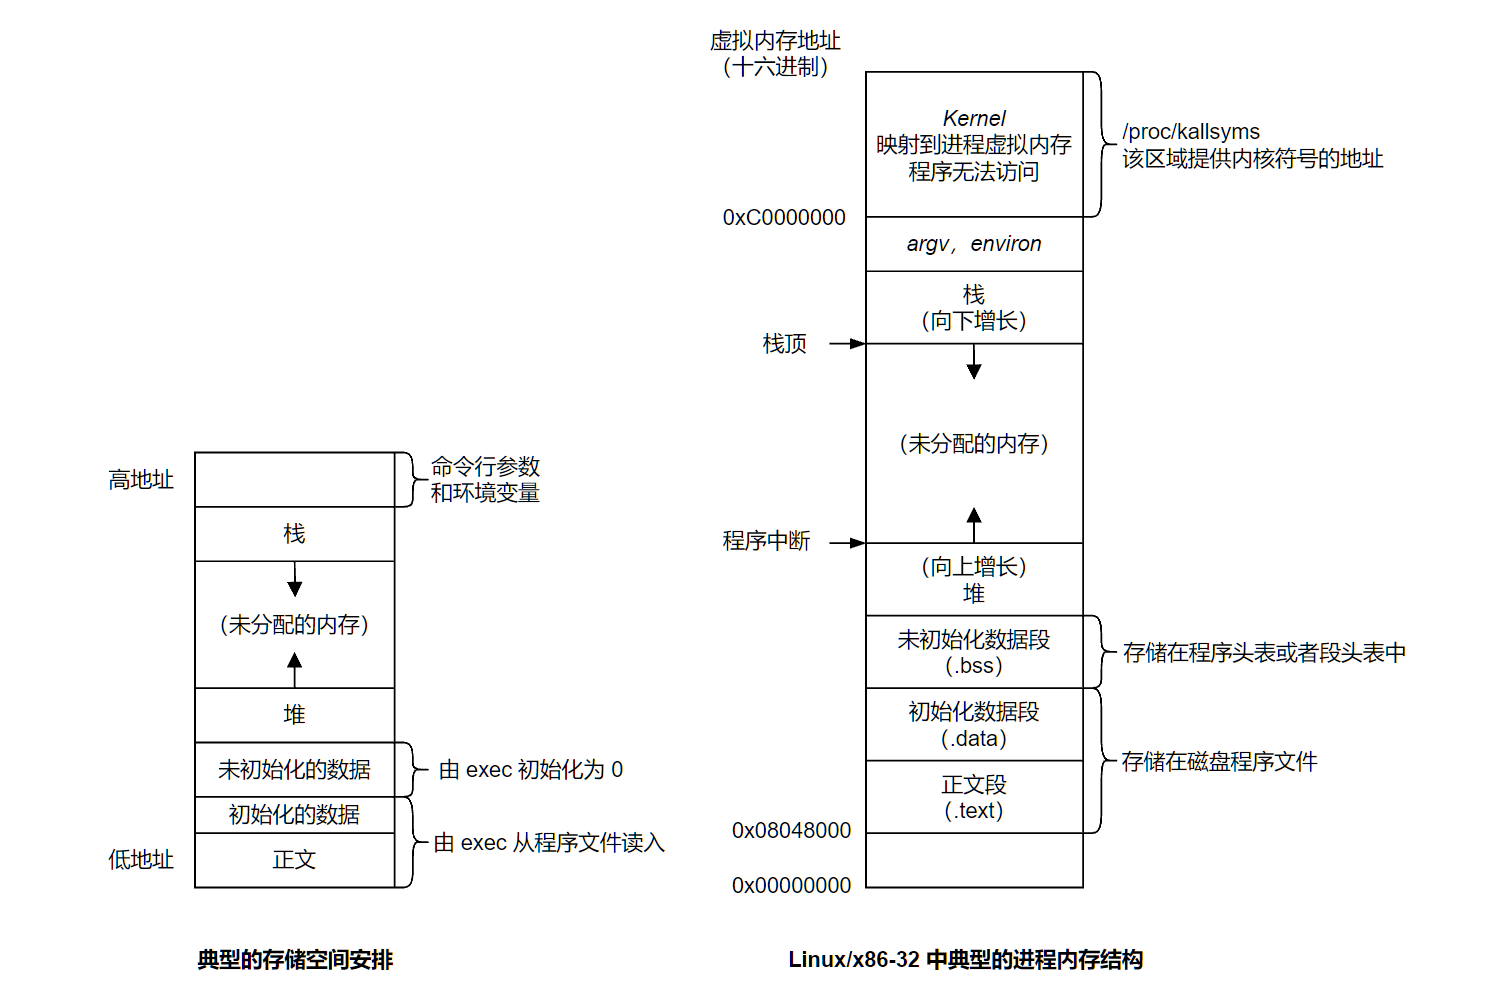
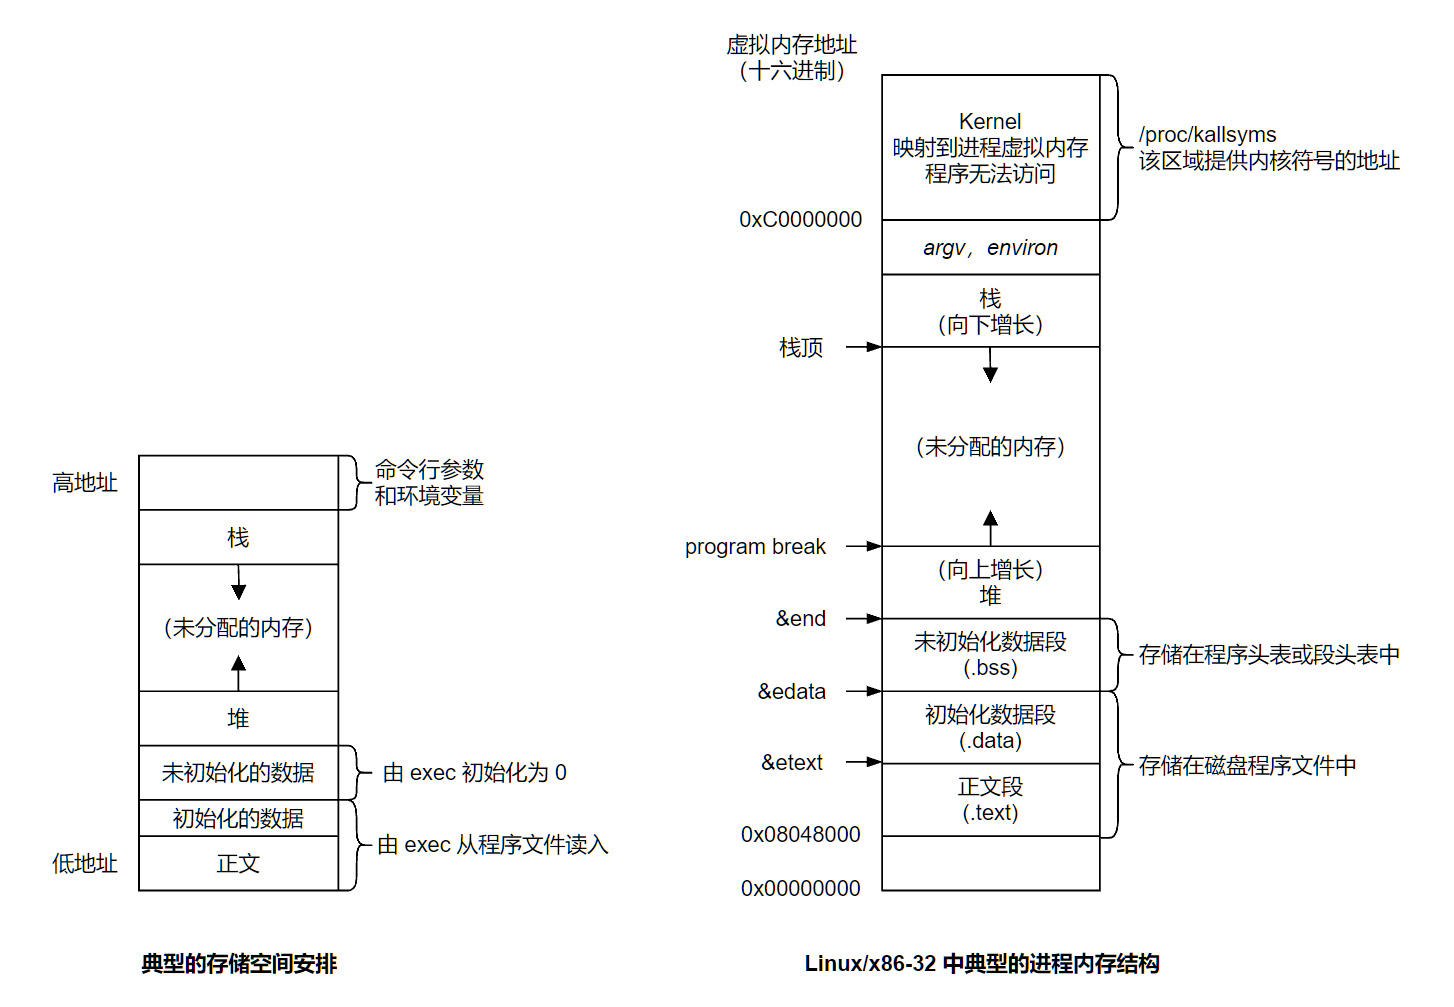
update

diff --git a/Unix 环境编程/4-进程.md b/Unix 环境编程/4-进程.md
@@ -8,9 +8,9 @@ C 程序总是 `main` 函数开始执行，`main` 函数原型：
 int main(int argc, char *argv[]);
 ```
 
-`argc` 命令行参数的数目。
+`argc` 命令行参数的数目
 
-`argv` 由指向各命令行参数的指针所组成的数组。（`ISO C` 和 `POSIX` 要求 argv[argc] 是一个空指针）
+`argv` 由指向各命令行参数的指针所组成的数组（`ISO C` 和 `POSIX` 要求 argv[argc] 是一个空指针）
 
 ```c
 // main.c
@@ -19,15 +19,16 @@ int main(int argc, char *argv[]);
 
 int main(int argc,char* argv[])
 {
+    // for (char **ptr = argv; *ptr != NULL; ++ptr) {
+    //     printf("%s\n", *ptr);
+    // }
     printf("%d\n",argc);
     for(int i = 0; i < argc; ++i) {
         printf("%s\n",argv[i]);
     }
     return 0;
 }
-```
-
-```c
+/*
 $ gcc main.c -o a.out
 $ ./a.out "hello" 'world' '' test
 5
@@ -36,6 +37,7 @@ hello
 world
 
 test
+*/
 ```
 
 当内核通过 `exec` 函数执行 C 程序，在调用 `main` 函数之前先调用一个特殊的启动例程：
@@ -155,13 +157,21 @@ char *getenv(const char *name);
 
 ![存储布局](assets/%E5%AD%98%E5%82%A8%E5%B8%83%E5%B1%80.png)
 
-**正文段（.text）**：由 CPU 执行的机器指令部分，存放在磁盘可执行文件中，通常可以**共享**，一个程序可以同时执行 N 次，但是程序的正文段在内存中只需要 1 份，也是**只读**的，防止修改其指令
+#### 3.1 正文段
 
-**初始化数据段（.data）**：数据段，存放在磁盘可执行文件中，占磁盘空间，包含了程序中明确地赋了初值的变量，包括函数外的赋初值的全局变量，函数内的赋初值的静态变量
+（.text），由 CPU 执行的机器指令部分，存放在磁盘可执行文件中，通常可以**共享**，一个程序可以同时执行 N 次，但是程序的正文段在内存中只需要 1 份，也是**只读**的，防止修改其指令。`&etext` 符号表示文本段的结束地址
 
-**未初始化数据段（.bss）**：bss 段，程序开始执行之前，内核将此段中的数据初始化为 0 或者空指针，包含函数外的未赋初值的全局变量，函数内的未赋初值的静态变量
+#### 3.2 初始化数据段
 
-**栈（stack）**：临时变量以及每次函数调用时所需要保存的信息；每次函数调用时，函数返回达地址及调用者的环境信息都存放在栈中；最新的正在被执行的函数，在栈上为其临时变量分配存储空间；递归函数每次调用自身时，会创建一个新的栈帧，因此某一次函数调用中的变量不影响下一次调用中的变量
+（.data），数据段，存放在磁盘可执行文件中，占磁盘空间，包含了程序中明确地赋了初值的变量，包括函数外的赋初值的全局变量，函数内的赋初值的静态变量。`&edata` 符号表示初始化数据段的结束地址
+
+#### 3.3 未初始化数据段
+
+（.bss），bss 段，程序开始执行之前，内核将此段中的数据初始化为 0 或者空指针，包含函数外的未赋初值的全局变量，函数内的未赋初值的静态变量，`&end` 符号表示数据段的结束地址
+
+#### 3.4 栈
+
+（stack），临时变量以及每次函数调用时所需要保存的信息；每次函数调用时，函数返回达地址及调用者的环境信息都存放在栈中；最新的正在被执行的函数，在栈上为其临时变量分配存储空间；递归函数每次调用自身时，会创建一个新的栈帧，因此某一次函数调用中的变量不影响下一次调用中的变量
 
 当一个函数被调用时，一个新的栈帧会被压入栈中。栈帧包括以下部分：
 
@@ -183,7 +193,9 @@ char *getenv(const char *name);
 
 6. 责任：程序员不需要显式地管理栈上的内存分配和释放。编译器和运行时系统会自动处理这些任务。然而，程序员需要确保不会发生栈溢出，例如避免在栈上分配过大的数据结构。
 
-**堆（Heap）**：用于存储动态分配的内存。与栈（Stack）相比，堆提供了更灵活的内存管理方式。堆中的内存分配和释放并不遵循先进后出（LIFO）的原则，而是根据程序员的需求进行动态管理。以下是关于堆的详细描述：
+#### 3.5 堆
+
+（Heap），用于存储动态分配的内存。与栈（Stack）相比，堆提供了更灵活的内存管理方式。堆中的内存分配和释放并不遵循先进后出（LIFO）的原则，而是根据程序员的需求进行动态管理。以下是关于堆的详细描述：
 
 1. 内存分配：在堆中，内存的分配是动态进行的。程序员可以根据需要请求分配内存，这通常通过使用内存分配函数（如C语言中的`malloc()`或C++中的`new`操作符）来完成。堆允许程序在运行时根据需要分配和释放内存，这对于处理大小可变的数据结构（如链表、树、图等）非常有用。
 
@@ -249,26 +261,9 @@ int main() {
 
 ### 4. 共享库
 
-共享库优点：
-
-1. **节省内存和磁盘空间**：使可执行程序不需要包含公用的库函数，只需在所有进程都可引用的存储区保存这种库例程的一个副本，可被多个进程共享
-2. **简化更新和维护**：可以对共享库进行更新，无需重新编译和链接所有使用该库的程序
-3. **提高程序加载速度**：操作系统可以将共享库加载到内存中，操作系统也可以对共享库进行优化
-4. **代码重用**：减少代码冗余
-5. **动态链接**：在程序运行时根据需要加载和卸载库
-
-共享库缺点：
-
-1. **运行时性能开销**：动态链接需要额外的时间解析和链接共享库
-2. **依赖问题**：共享库更新到不兼容版本可能导致程序无法正常运行
-3. **安全风险**：共享库可能被劫持以执行恶意代码
-4. **跨平台问题**：共享库可能需要针对不同的操作系统和硬件系统进行编译和适配
-5. **分发和部署**：需要额外的步骤
-
 ```c
-int main() {
-    return 0;
-}
+// test.c
+int main() {}
 // gcc 默认使用共享库
 // -static 阻止使用共享库
 
@@ -282,5 +277,124 @@ $ size a.out
    text    data     bss     dec     hex filename
  763974   20804    6016  790794   c110a a.out
 */
+```
+
+#### 4.1 静态链接库
+
+命名规则 `libxxx.a`，`lib` 为库的前缀，`xxx` 为库的名称，`.a` 为拓展名
+
+```sh
+# 静态链接库
+# 编译得到目标文件
+gcc test.c -c
+
+# 将目标文件 ar（archive） 工具打包
+ar rcs libtest.a test.o
+```
+
+整合到可执行文件中，会导致可执行文件体积增大
+
+可执行文件可单独执行，不需要外部静态链接库
+
+链接库更新时，需要重新编译生成可执行文件
+
+多个进程执行可执行文件，每个进程都有其独立的地址空间，所以每个进程都会有静态库的一份拷贝，导致空间浪费
+
+#### 4.2 动态链接库
+
+命名规则 `libxxx.so`，`lib` 为库的前缀，`xxx` 为库的名字，`.so` 为拓展名
+
+```sh
+# 动态链接库
+# 编译得到与位置无关的代码
+gcc -c -fpic test.c
+# gcc -c -fPIC test.c
+
+# 创建动态链接库
+gcc -shared test.o -o libtest.so
+
+# 执行包含动态链接库的可执行程序
+# 指定动态链接库的路径
+LD_LIBRARY_PATH=/home/eorys/code/test ./main
+# 添加环境变量（该终端进程有效）
+export LD_LIBRARY_PATH=$LD_LIBRARY_PATH:/home/eorys/code/test
+# 用户配置
+# 将上方 export.. 语句添加到文件末尾
+vim ~/.bashrc
+# 使配置生效
+source ~/.bashrc
+# 或者
+. ~/.bashrc
+# 系统配置
+sudo vim /etc/profile
+# 使配置生效
+source /etc/profile
+# 或者
+. /etc/profile
+```
+
+动态库的内容在需要使用到时候读取链接库，因此可执行文件较小，可执行文件不能单独执行，链接库必须存在，动态链接库更新时，通常不需要重新编译生成可执行文件，动态库在内存中只存在一份拷贝
+
+为了加速动态链接库的访问速度，一般需要将动态链接库载入内存中，从而避免读取磁盘，加载到高速缓冲中的动态链接库所在的目录在文件 `/etc/ld.so.conf` 中，可以使用 `ldconfig` 命令将该文件中指定的目录下的动态库读入缓存中
+
+如果编译时制定了动态链接库及库的路径，但是 `/etc/ld.so.conf` 文件中没有包含该路径，则运行生成的可执行文件会报错
+
+`ldd` 命令可以查看可执行程序的二进制文件还有什么动态库，如果某个被指定的动态链接库没有载入内存，则这个库会显示为 “not found”
+
+```sh
+$ldd main
+        linux-vdso.so.1 (0x00007ffcd54db000)
+        libtest.so => not found
+        libc.so.6 => /lib/x86_64-linux-gnu/libc.so.6 (0x00007f66b4220000)
+        /lib64/ld-linux-x86-64.so.2 (0x00007f66b4422000)
+```
+
+### 5. 进程堆空间的管理
+
+堆上空间分配和释放的核心是通过调整 **program break** 实现的，malloc 和 free 维护空闲空间链表，以减少调整 **program break** 的系统调用的调用次数
+
+#### 5.1 调整 program break 进行分配与释放
+
+可以通过 `brk` 函数和 `sbrk` 函数改变进程的 **program break** 的位置，从而分配和释放内存
+
+program break 是指进程堆区的尾部，是一个动态变化的边界，用于分隔堆区和其他内存区域。
+
+**program break** 位置抬升后，程序可以访问新分配区域内的任何内存地址，而此时物理内存页尚未分配。内核会在进程首次试图访问这些虚拟内存地址时分配新的物理内存页
+
+```c
+#include <unistd.h>
+
+// 将 program break 设置为参数指定的位置
+// 虚拟内存以页为单位进行分配
+// 所以 end_data_segment 实际会四舍五入到下一个内存页的边界处
+// 试图将 end_data_segment 设置为一个低于其初始值（&end）的位置时，可能导致无法预知的行为
+int brk(void *addr);
+    argument:
+        - addr: 指定的地址
+    return:
+        - 成功返回 0
+        - 失败返回 -1，设置 errno，ENOMEM
+
+// sbrk(0) 返回当前位置，可用于跟踪堆的大小，或监视内存分配函数的行为
+void *sbrk(intptr_t increment);
+    argument:
+        - increment: intptr_t 32位 int，64位 long int
+                     在原有地址上增加参数指定的大小
+    return:
+        - 成功返回之前 program break 地址
+        - 失败返回 (void*) -1，设置 errno，ENOMEN
+```
+
+#### 5.2 使用 C 库函数进行分配与释放
+
+`malloc` 和 `free` 相比于 `brk` 和 `sbrk` 具有以下优点：
+
+- 属于 C 标准，`brk` 和 `sbrk` 是 Unix 系统调用
+- 更容易在多线程程序中使用
+- 接口容易，允许分配小块内存
+- 允许随时释放已分配的内存块，这些内存块维护在一张空闲内存列表中，在后续分配内存时可循环使用
+
+```c
+
 ```
 

diff --git a/cpp/左值右值.md b/cpp/左值右值.md
@@ -1,0 +1,52 @@
+```cpp
+#include <iostream>
+#include <vector>
+#include <utility>
+
+int main() {
+    // 左值（Lvalue）
+    // a 是一个左值，因为它表示一个内存位置，可以在赋值运算符左边使用
+    // 可以获取其地址
+    // 可以被绑定到左值引用
+    int a = 42;
+
+    // 右值（Rvalue）
+    // a + 2 是一个右值，因为它是一个临时值，不能在赋值运算符左边使用
+    // 不能获取其地址
+    // 可以被绑定到右值引用
+    int b = a + 2;
+    // (a + 2) = 3; // 表达式必须是可修改的左值
+    // std::cout << &(a + 2) << std::endl; // 表达式必须为左值或函数指示符
+
+
+    // 左值引用（Lvalue reference）
+    // lref 是一个左值引用，它绑定到左值 a
+    int &lref = a;
+    std::cout << &a << std::endl;    // 0x7fffffffdc20
+    std::cout << &lref << std::endl; // 0x7fffffffdc20
+
+    // 右值引用（Rvalue reference）
+    // rref 是一个右值引用，它绑定到将亡值（通过 std::move(a) 获得）
+    int &&rref = std::move(a);
+    std::cout << &a << std::endl;    // 0x7fffffffdc20
+    std::cout << &rref << std::endl; // 0x7fffffffdc20
+
+    // 纯左值（PLvalue）
+    // 左值的子集，排除了左值引用
+    // a 是一个纯左值，因为它是一个左值，但不是左值引用。
+    int c = a;
+
+    // 纯右值（PRvalue）
+    // 右值的子集，排除了将亡值
+    // 5 是一个纯右值，因为它是一个字面值，不是将亡值
+    int d = 5;
+
+    // 将亡值（Xvalue）
+    std::vector<int> vec1 = {1, 2, 3};
+    // std::move(vec1) 是一个将亡值，表示 vec1 即将被销毁的资源
+    std::vector<int> vec2 = std::move(vec1);
+    
+    return 0;
+}
+```
+

diff --git a/Linux/动态库/动态库.md b/Linux/动态库/动态库.md
@@ -59,7 +59,7 @@ error while loading shared libraries: libcal.so: cannot open shared object file:
 
 - 定位（动态库）共享库文件
 
-  - 当系统加载可执行代码的时候，能够知道其所依赖的库的名字，同时也需要知道库的**绝对路径**。此时需要系统的**动态载入器**来获取该绝对路径。对于 elf 格式的可执行程序，是由 ld-linux.so 来完成的，他先后搜索 elf 文件的 
+  - 当系统加载可执行代码的时候，能够知道其所依赖的库的名字，同时也需要知道库的**绝对路径**。此时需要系统的**动态载入器**来获取该绝对路径。对于 elf 格式的可执行程序，是由 ld-linux.so 来完成的，他先后搜索 elf 文件的
     1. **DT_RPATH 段**
     2. **环境变量 LD_LIBRARY_PATH**
     3. **/etc/ld.so.cache 文件列表**
